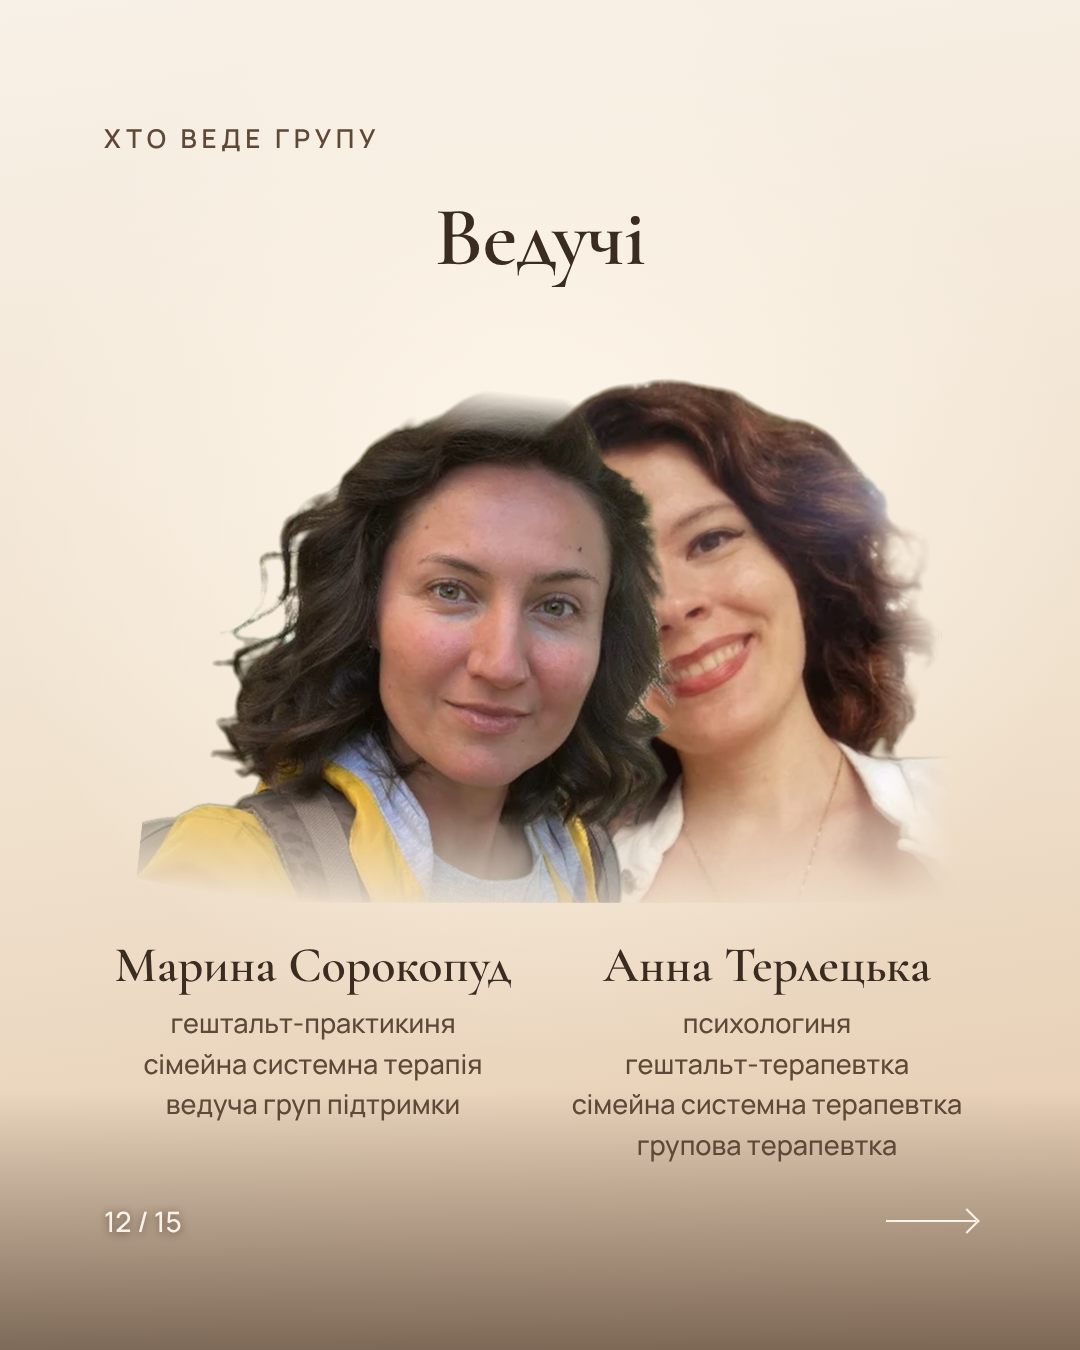
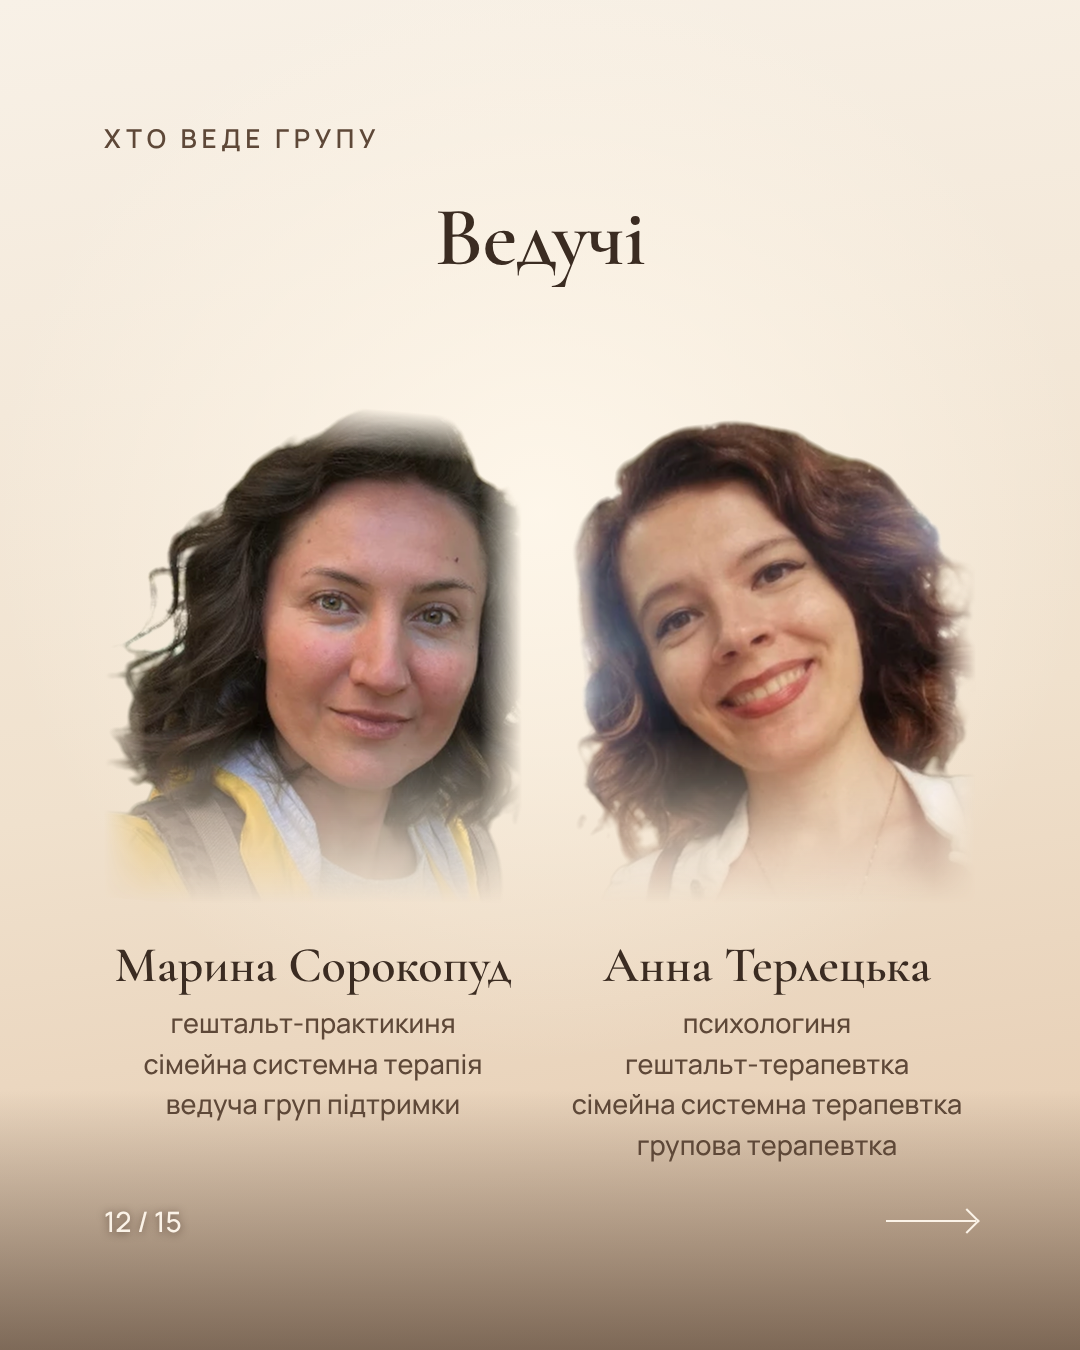
Carousel: hosts with space between and matched head size
Claude-Session: https://claude.ai/code/session_01Ybrem4L8V91CpdmvQtLtua

Changed region(s): [[0.0917, 0.28, 0.9167, 0.6844]]

diff --git a/reels/carousel/carousel.html b/reels/carousel/carousel.html
@@ -61,7 +61,9 @@ p{font-size:40px;line-height:1.45;color:var(--soft);font-weight:500}
 .host .n{font-family:"Cormorant Garamond",serif;font-weight:600;font-size:56px;line-height:1.05;color:var(--ink);margin-bottom:14px}
 .host .r{font-size:30px;line-height:1.45;color:var(--soft);font-weight:500}
 .duo{display:flex;gap:36px;justify-content:center;margin-top:6px}
-.pair{position:relative;width:872px;height:580px;margin-top:40px;clip-path:inset(-300px -300px 0 -300px)}
+.pair{display:flex;gap:36px;justify-content:center;margin-top:40px}
+.ph{position:relative;width:418px;height:580px;overflow:hidden}
+.ph img{position:absolute}
 .pair img{position:absolute}
 .duo .h{width:418px;text-align:center}
 .arch{position:relative;width:418px;height:540px;border-radius:209px 209px 28px 28px;overflow:hidden;box-shadow:0 18px 50px rgba(90,55,30,.22)}
@@ -248,8 +250,8 @@ p{font-size:40px;line-height:1.45;color:var(--soft);font-weight:500}
   <div class="body" style="justify-content:flex-start;padding-top:36px">
     <h2 class="serif" style="text-align:center">Ведучі</h2>
     <div class="pair">
-      <img src="photos/anna_cut.png" style="width:470px;left:395px;bottom:-130px;z-index:1;transform:rotate(-4deg);transform-origin:50% 100%;-webkit-mask-image:linear-gradient(90deg,#000 86%,transparent),linear-gradient(180deg,#000 62%,transparent 82%);-webkit-mask-composite:source-in;mask-image:linear-gradient(90deg,#000 86%,transparent),linear-gradient(180deg,#000 62%,transparent 82%);mask-composite:intersect">
-      <img src="photos/marina_cut.png" style="width:520px;left:30px;bottom:-10px;z-index:2;transform:rotate(6deg);transform-origin:50% 100%;-webkit-mask-image:linear-gradient(180deg,transparent 0,#000 9%,#000 78%,transparent 100%);mask-image:linear-gradient(180deg,transparent 0,#000 9%,#000 78%,transparent 100%)">
+      <div class="ph" style="-webkit-mask-image:linear-gradient(90deg,transparent,#000 10%,#000 90%,transparent),linear-gradient(180deg,#000 70%,transparent);-webkit-mask-composite:source-in;mask-image:linear-gradient(90deg,transparent,#000 10%,#000 90%,transparent),linear-gradient(180deg,#000 70%,transparent);mask-composite:intersect"><img src="photos/marina_cut.png" style="width:500px;left:-70px;bottom:-10px;transform:rotate(5deg);transform-origin:50% 100%;-webkit-mask-image:linear-gradient(180deg,transparent 0,#000 9%);mask-image:linear-gradient(180deg,transparent 0,#000 9%)"></div>
+      <div class="ph" style="-webkit-mask-image:linear-gradient(90deg,transparent,#000 10%,#000 90%,transparent),linear-gradient(180deg,#000 70%,transparent);-webkit-mask-composite:source-in;mask-image:linear-gradient(90deg,transparent,#000 10%,#000 90%,transparent),linear-gradient(180deg,#000 70%,transparent);mask-composite:intersect"><img src="photos/anna_cut.png" style="width:440px;left:18px;bottom:-130px;transform:rotate(-4deg);transform-origin:50% 100%"></div>
     </div>
     <div class="duo">
       <div class="h"><div class="n">Марина Сорокопуд</div>
